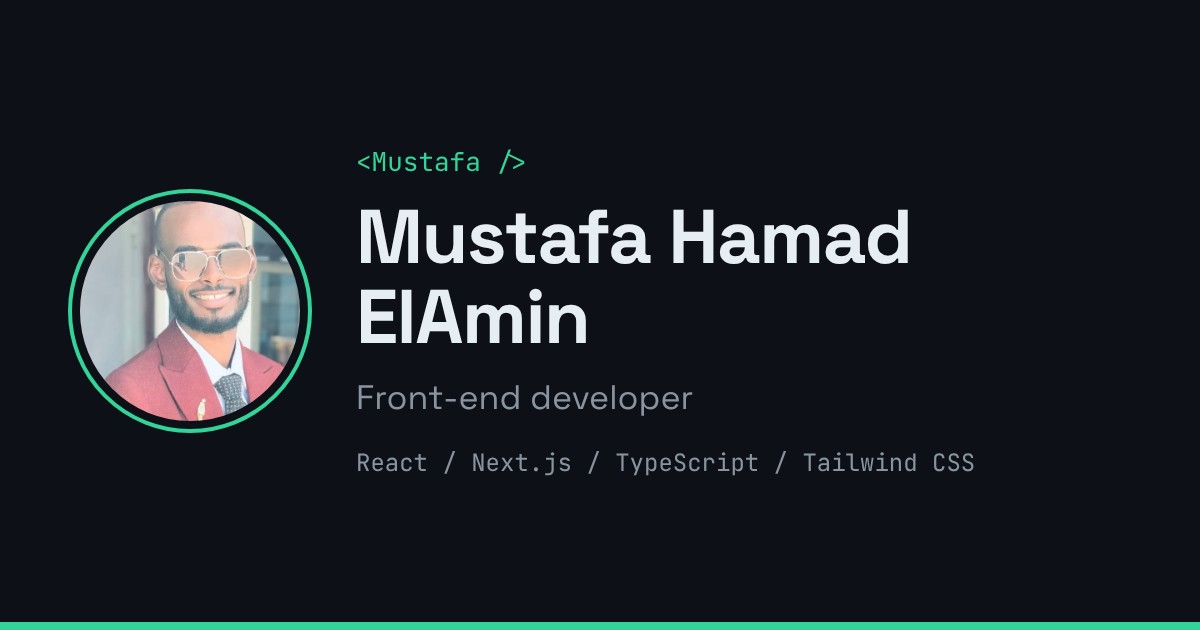
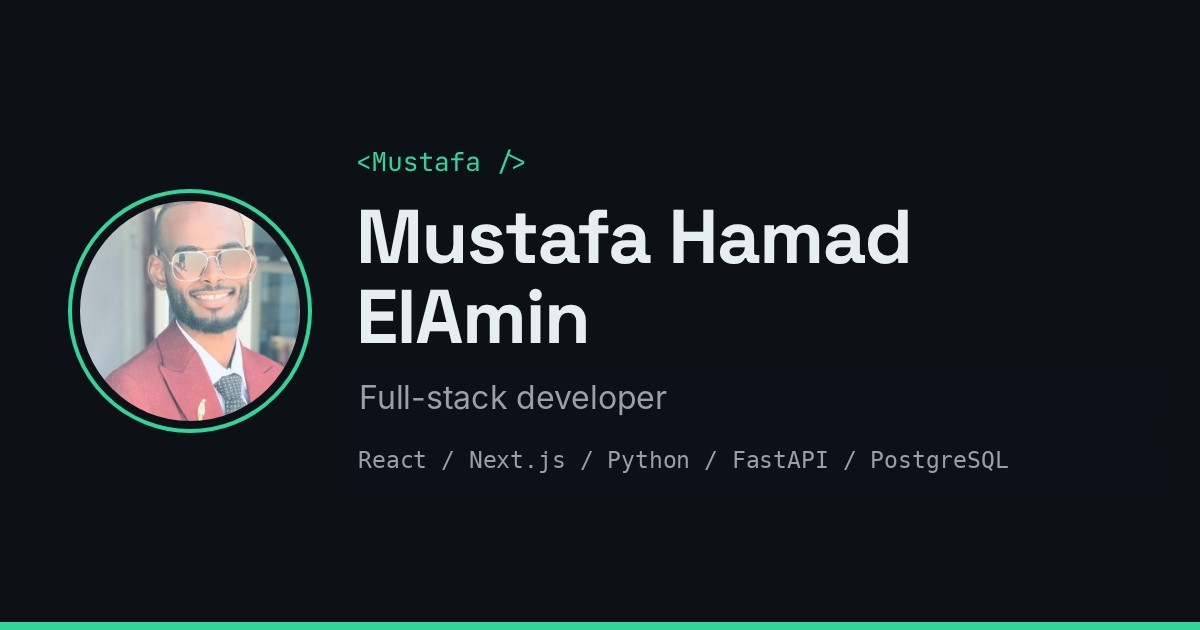
Present as a full-stack developer: role, intro, back-end skills, share image
Claude-Session: https://claude.ai/code/session_013WzxXsvNLEci1HdPXCnbS2

Changed region(s): [[0.2775, 0.6937, 0.8325, 0.754], [0.2775, 0.6032, 0.5858, 0.6635]]

diff --git a/app/components/Hero.tsx b/app/components/Hero.tsx
@@ -3,9 +3,9 @@ const email = 'Mu21stafa23@gmail.com'
 /* The lines shown in the code window. Edit these to change what it says. */
 const profile: { key: string; value: string | string[] }[] = [
   { key: 'name', value: 'Mustafa Hamad ElAmin' },
-  { key: 'role', value: 'Front-end developer' },
+  { key: 'role', value: 'Full-stack developer' },
   { key: 'location', value: 'Saudi Arabia' },
-  { key: 'stack', value: ['React', 'Next.js', 'TypeScript'] },
+  { key: 'stack', value: ['React', 'Next.js', 'TypeScript', 'Python', 'PostgreSQL'] },
   { key: 'styling', value: 'Tailwind CSS' },
   { key: 'languages', value: ['Arabic', 'English'] },
   { key: 'focus', value: 'Clean, fast interfaces' },
@@ -34,14 +34,14 @@ export default function Hero() {
           <h1 className="mt-8 text-5xl font-bold leading-[1.05] tracking-tight sm:text-6xl">
             Mustafa Hamad ElAmin
           </h1>
-          <p className="mt-4 text-2xl font-medium text-mute">Front-end developer</p>
+          <p className="mt-4 text-2xl font-medium text-mute">Full-stack developer</p>
           <p className="mt-5 inline-flex items-center gap-2 rounded-full border border-line bg-panel px-3 py-1.5 text-sm">
             <span aria-hidden="true" className="h-2 w-2 rounded-full bg-mint" />
             Available for freelance projects
           </p>
           <p className="mt-6 max-w-md text-lg leading-8 text-mute">
-            I build fast, responsive web apps with React, Next.js and Tailwind CSS, in English
-            and Arabic.
+            I build fast, responsive web apps with React, Next.js and Tailwind CSS, and the APIs
+            behind them with Python, FastAPI and PostgreSQL, in English and Arabic.
           </p>
 
           <div className="mt-10 flex flex-wrap gap-4">

diff --git a/app/components/About.tsx b/app/components/About.tsx
@@ -14,8 +14,9 @@ export default function About() {
       <div className="grid gap-10 lg:grid-cols-3 lg:gap-16">
         <div className="space-y-5 text-lg leading-8 text-mute lg:col-span-2">
           <p className="text-xl leading-8 text-fg">
-            I&apos;m a front-end developer based in Saudi Arabia. I build responsive websites and
-            web apps with React, Next.js and Tailwind CSS.
+            I&apos;m a full-stack developer based in Saudi Arabia. I build responsive websites and
+            web apps with React, Next.js and Tailwind CSS, and the APIs and databases behind them
+            with Python, FastAPI and PostgreSQL.
           </p>
           <p>
             I started in IT. After my degree I worked as a teaching assistant and a technical
@@ -24,7 +25,7 @@ export default function About() {
             running.
           </p>
           <p>
-            Since 2023 I&apos;ve focused on front-end development: taking on freelance projects
+            Since 2023 I&apos;ve focused on web development: taking on freelance projects
             and learning through courses along the way. I also have experience cleaning and
             organizing data.
           </p>

diff --git a/app/layout.tsx b/app/layout.tsx
@@ -12,9 +12,9 @@ const jetbrainsMono = JetBrains_Mono({
   subsets: ["latin"],
 });
 
-const title = "Mustafa Hamad ElAmin | Front-End Developer";
+const title = "Mustafa Hamad ElAmin | Full-Stack Developer";
 const description =
-  "Front-end developer building fast, responsive web apps with React, Next.js and Tailwind CSS, in English and Arabic.";
+  "Full-stack developer building fast, responsive web apps with React, Next.js and Tailwind CSS, and APIs with Python, FastAPI and PostgreSQL, in English and Arabic.";
 
 export const metadata: Metadata = {
   title,
@@ -24,7 +24,7 @@ export const metadata: Metadata = {
     title,
     description,
     type: "website",
-    images: [{ url: "/og.jpg", width: 1200, height: 630, alt: "Mustafa Hamad ElAmin, front-end developer" }],
+    images: [{ url: "/og.jpg", width: 1200, height: 630, alt: "Mustafa Hamad ElAmin, full-stack developer" }],
   },
   twitter: {
     card: "summary_large_image",

diff --git a/app/components/Skills.tsx b/app/components/Skills.tsx
@@ -7,8 +7,13 @@ const skillGroups = [
     wide: true,
   },
   {
+    title: 'Back end and APIs',
+    items: ['Python', 'FastAPI', 'REST APIs', 'PostgreSQL', 'PostGIS', 'Docker', 'GitHub Actions'],
+    wide: true,
+  },
+  {
     title: 'Programming',
-    items: ['JavaScript', 'Java', 'C++', 'SQL basics'],
+    items: ['JavaScript', 'Python', 'Java', 'C++', 'SQL'],
   },
   {
     title: 'Data',
